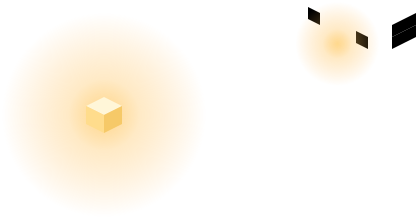
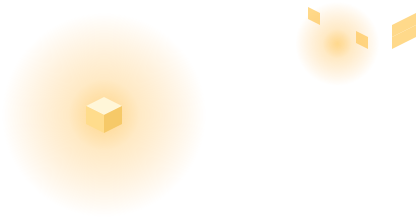
Light the night windows in Android's Header scene pictures
The web colours lit windows in CSS, so Beach's had no fill in the vector data and
drew black on Android, and Sakura's kept their daytime cream. The night-glow
pictures now carry the web's window colour.

Changed region(s): [[0.933, 0.0548, 0.9952, 0.2192], [0.7153, 0.0274, 0.7775, 0.1096], [0.8397, 0.137, 0.9019, 0.2192]]

diff --git a/tools/header-scenes/src/sprites.ts b/tools/header-scenes/src/sprites.ts
@@ -52,6 +52,23 @@ export interface Sprite extends Omit<SpritePlan, 'svg'> {
   png: Buffer;
 }
 
+/** The web colours lit windows in CSS; a picture has no CSS, so the colour is set on the shapes. */
+const WINDOW_LIGHT = '#ffd98a';
+function lit(node: SceneVector, inWindows = false): SceneVector {
+  const windows = inWindows || (node.classes ?? []).includes('wins');
+  const shape = windows && node.tag !== 'g';
+  return {
+    ...node,
+    props: shape
+      ? {
+          ...node.props,
+          fill: WINDOW_LIGHT,
+          ...(node.props.stroke ? { stroke: WINDOW_LIGHT } : {}),
+        }
+      : node.props,
+    children: node.children?.map((child) => lit(child, windows)),
+  };
+}
 const frame = (defs: string, body: string) =>
   `<svg xmlns="http://www.w3.org/2000/svg" width="${AREA.width * SCALE}" height="${AREA.height * SCALE}" viewBox="${AREA.x} ${AREA.y} ${AREA.width} ${AREA.height}">${defs}${body}</svg>`;
 
@@ -74,7 +91,7 @@ export function spritePlans(scene: HeaderSceneArt): SpritePlan[] {
         layer,
         kind,
         seconds,
-        svg: frame(defs, parts.map(vectorSvg).join('')),
+        svg: frame(defs, parts.map((part) => vectorSvg(lit(part))).join('')),
       });
     if (shadows.length) add('shadow', 'shadow', FLOAT_SECONDS[layer], shadows);
     if (body.length) add('body', 'body', FLOAT_SECONDS[layer], body);

diff --git a/tools/header-scenes/src/sprites.test.ts b/tools/header-scenes/src/sprites.test.ts
@@ -69,3 +69,14 @@ it('lists the main island of every scene as its settings thumbnail', () => {
     expect(spritePlans(scene).some((plan) => plan.file === `${scene.id}-main-body.png`)).toBe(true);
   }
 });
+
+it.each(scenes.map((scene) => [scene.id, scene] as const))(
+  '%s night windows are drawn in the lit colour the web sets in CSS, never the default black',
+  (_, scene) => {
+    const glow = spritePlans(scene).find((plan) => plan.layer === 'glow')!.svg;
+    const windows = /<g class="[^"]*\bwins\b[^"]*">(.*?)<\/g>/.exec(glow)![1]!;
+    const shapes = windows.match(/<(polygon|path|rect|circle)\b[^>]*>/g)!;
+    expect(shapes.length).toBeGreaterThan(0);
+    for (const shape of shapes) expect(shape).toContain('fill="#ffd98a"');
+  },
+);

diff --git a/apps/mobile/src/ui/header-scene-sprites/sakura.ts b/apps/mobile/src/ui/header-scene-sprites/sakura.ts
@@ -17,7 +17,7 @@ import s11 from '../../../assets/header-scenes/sakura-glow-body.png';
 const scene: HeaderSceneSprites = {
   id: 'sakura',
   description: "A floating cherry-blossom garden with a two-tier pagoda, a torii, a koi pond and bridge, a waterfall, a villager, a fox and stone lanterns.",
[2 lines of base64/hex data omitted]
   sprites: [
     { layer: 'far', kind: 'body', seconds: 9, x: -16.67, y: 43.67, w: 674.67, h: 150, image: s0 },
     { layer: 'far', kind: 'cloud', seconds: 260, x: 364, y: 24.67, w: 112, h: 32, image: s1 },

diff --git a/apps/mobile/src/ui/header-scene-sprites/beach.ts b/apps/mobile/src/ui/header-scene-sprites/beach.ts
@@ -15,7 +15,7 @@ import s9 from '../../../assets/header-scenes/beach-glow-body.png';
 const scene: HeaderSceneSprites = {
   id: 'beach',
   description: "A floating beach island with a waterfall hill, palms, a thatched hut, a jetty, a sailboat, a lantern, a villager, a crab and a gull.",
[2 lines of base64/hex data omitted]
   sprites: [
     { layer: 'far', kind: 'body', seconds: 9, x: 86, y: 33.67, w: 580, h: 165, image: s0 },
     { layer: 'far', kind: 'cloud', seconds: 260, x: 380, y: 23.67, w: 78, h: 26, image: s1 },
